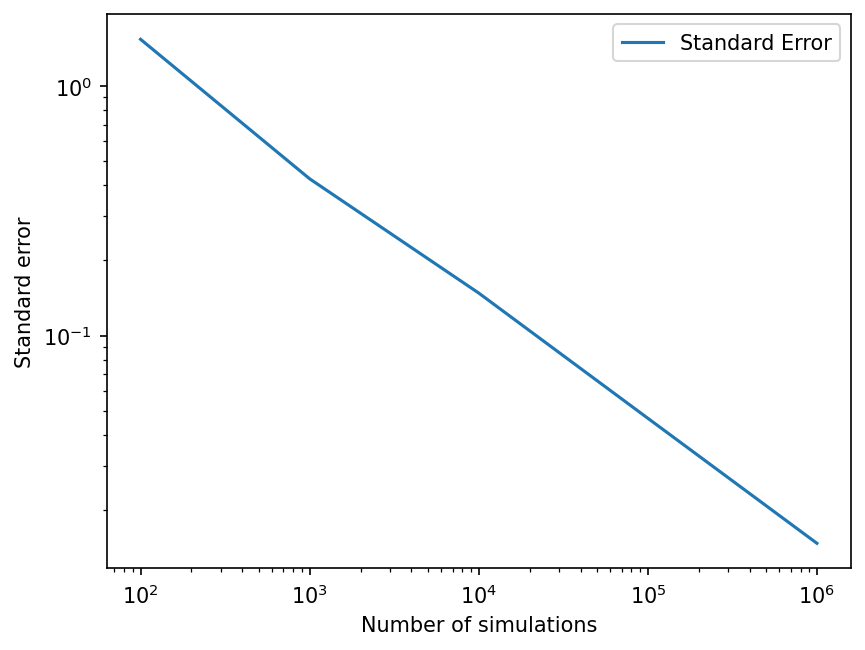
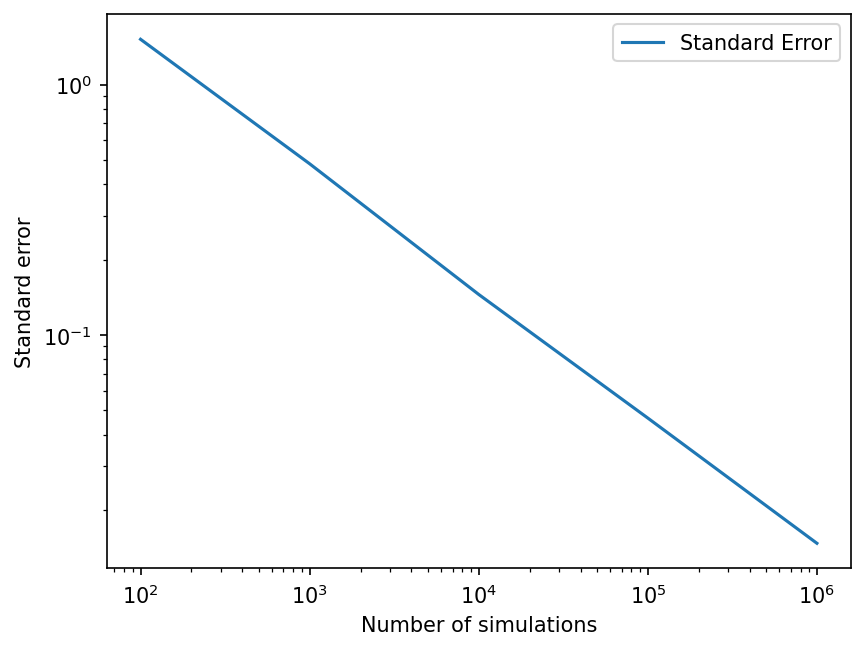
Added antithetic variates to reduce variance, and showed how this reduces simulations needed for same accuracy.

diff --git a/montecarlo.py b/montecarlo.py
@@ -65,3 +65,24 @@ for i in range(b):
     if low <= blackscholesprice <= high: #Tests if the Black-Scholes answer is in our confidence interval.
         a += 1
 print(a/b) #We would expect this to be around 0.95.
+
+#I am now going to reduce the variance of the error using antithetic variates.
+
+def euro_call_antithetic(S0, K, r, sigma, T, N):
+    Z = np.random.normal(0, 1, N // 2) #Generates half as many standard normal random variables
+    Z = np.concatenate((Z, -Z)) #Uses antithetic variates to reduce variance
+
+    S_t = S0*np.exp((r - 0.5*sigma**2)*T + sigma*Z*np.sqrt(T)) #Calculates the price on expiry of all N simulations
+    payoff = np.maximum(S_t - K, 0) #Calculates the payoff for each simulation
+    return np.exp(-r*T)*np.mean(payoff) #Discounts the mean payoff
+
+#We will now compare empirically the standard error of the Monte Carlo simulation with the antithetic correction.
+
+plain = np.array([euro_call(100, 100, 0.05, 0.2, 1, 100000) for i in range(500)])
+antithetic = np.array([euro_call_antithetic(100, 100, 0.05, 0.2, 1, 100000) for i in range(500)])
+
+print('plain std: ', plain.std(ddof=1))
+print('antithetic std: ', antithetic.std(ddof=1))
+print('variance ratio: ', plain.var() / antithetic.var())
+#This shows that the antithetic variates method reduces the variance of the Monte Carlo simulation, 
+#and so means that we can use ~2.029 times fewer simulations to achieve the same accuracy.
